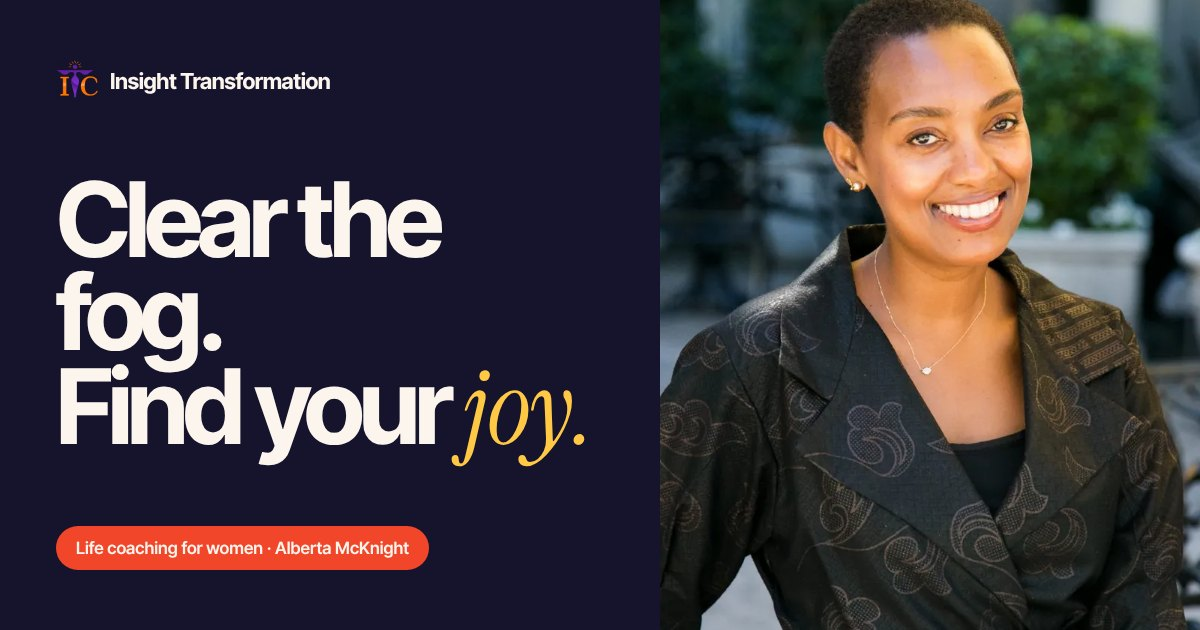
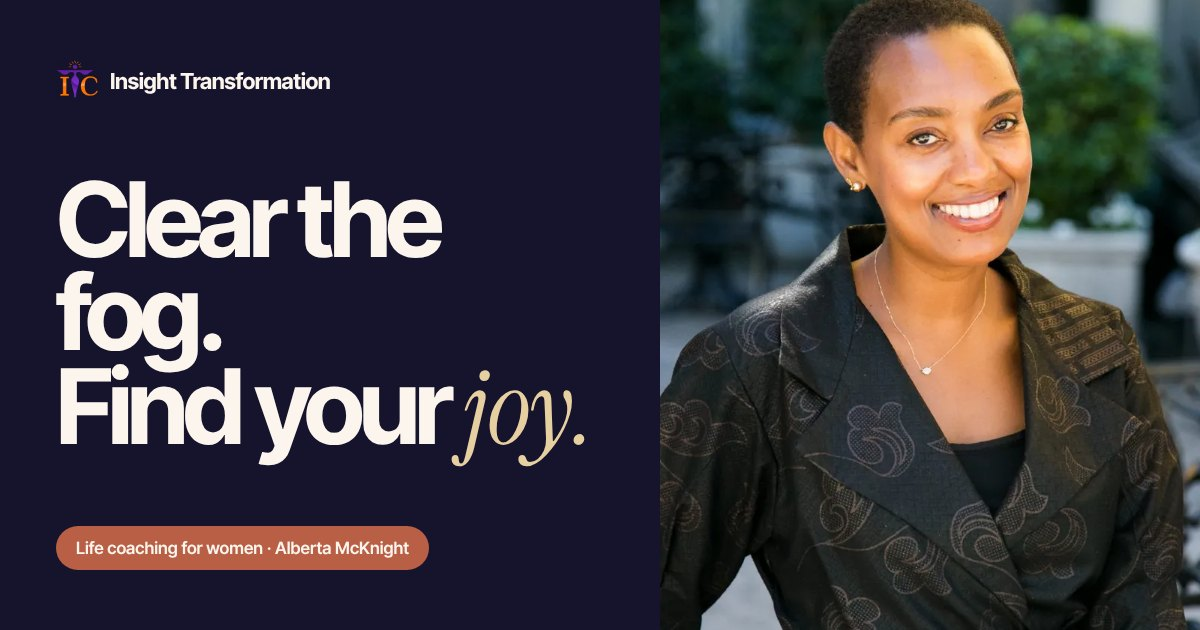
Calmer palette and clearance around coloured blocks
Replace the bright coral and sunshine yellow with muted terracotta,
warm wheat and dusty clay, keeping the deep indigo. Soften the glows
and the share image to match. Add space so no coloured block touches
neighbouring text (the "Is this you?" block sat 2px from the next
section label; the About quote card sat close to its heading).

Claude-Session: https://claude.ai/code/session_01HKk4GseRtsW7XDsCS6yZdp

Changed region(s): [[0.0308, 0.8143, 0.37, 0.9048], [0.37, 0.573, 0.4933, 0.754]]

diff --git a/insight-transformation/assets/css/main.css b/insight-transformation/assets/css/main.css
@@ -5,19 +5,19 @@
    ========================================================================== */
 
 :root {
-  --paper: #fbf5ee;
-  --sand: #f7e6dc;
-  --card: #fffaf5;
+  --paper: #f8f2ea;
+  --sand: #efe4d8;
+  --card: #fdf9f4;
   --ink: #15131f;
   --soft: #5d5866;
   --line: rgba(21, 19, 31, .12);
   --line-2: rgba(21, 19, 31, .2);
-  --violet: #f2462a;
-  --violet-soft: #ffe1d8;
+  --violet: #b85f45;
+  --violet-soft: #f3e3da;
   --plum: #16132c;
   --plum-2: #221e40;
-  --lilac: #ffc845;
-  --sun: #f2462a;
+  --lilac: #e6cfa0;
+  --sun: #b85f45;
   --on-dark: #fbf5ee;
   --on-dark-soft: rgba(251, 245, 238, .72);
   --line-dark: rgba(251, 245, 238, .16);
@@ -821,7 +821,7 @@ h1, h2, h3, .h1, .h2, .h3, .display, .hero__title, .phero__title, .statement__te
 .switch[aria-checked="true"] .lbl-on { background: var(--violet); }
 .hdr__cta { background: var(--violet); }
 .hdr__cta:hover { background: var(--ink); }
-.hdr__cta i { background: var(--lilac); box-shadow: 0 0 0 4px rgba(255, 200, 69, .3); }
+.hdr__cta i { background: var(--lilac); box-shadow: 0 0 0 4px rgba(230, 207, 160, .3); }
 .btn:hover { background: var(--violet); border-color: var(--violet); }
 .btn--outline:hover { background: var(--ink); border-color: var(--ink); }
 .quiz__lv.is-lead { border-color: var(--lilac); }
@@ -980,10 +980,10 @@ h1, h2, h3, .h1, .h2, .h3, .display, .hero__title, .phero__title, .statement__te
 .vhero__card::before { content: ""; position: absolute; inset: 0; z-index: -1; pointer-events: none;
   background: linear-gradient(90deg, var(--plum) 27%, rgba(22, 19, 44, .82) 40%, rgba(22, 19, 44, .2) 62%, rgba(22, 19, 44, 0) 80%),
               linear-gradient(0deg, rgba(22, 19, 44, .92) 0%, rgba(22, 19, 44, 0) 46%); }
-.vhero__card::after { content: ""; position: absolute; z-index: -1; left: -10%; bottom: -55%; width: 60%; aspect-ratio: 1; border-radius: 50%; background: radial-gradient(circle, rgba(242, 70, 42, .35), transparent 62%); pointer-events: none; }
+.vhero__card::after { content: ""; position: absolute; z-index: -1; left: -10%; bottom: -55%; width: 60%; aspect-ratio: 1; border-radius: 50%; background: radial-gradient(circle, rgba(184, 95, 69, .35), transparent 62%); pointer-events: none; }
 .vhero__body { flex: 1; display: flex; flex-direction: column; justify-content: flex-end; padding: clamp(36px, 5vw, 64px) clamp(22px, 4vw, 56px) 0; }
 .vhero__k { display: flex; align-items: center; gap: 10px; font-size: .68rem; font-weight: 600; letter-spacing: .16em; text-transform: uppercase; color: var(--on-dark-soft); }
-.dotlive { width: 8px; height: 8px; border-radius: 50%; background: var(--lilac); box-shadow: 0 0 0 4px rgba(255, 200, 69, .25); flex: none; }
+.dotlive { width: 8px; height: 8px; border-radius: 50%; background: var(--lilac); box-shadow: 0 0 0 4px rgba(230, 207, 160, .25); flex: none; }
 .vhero__title { font-family: var(--display); font-weight: 700; font-size: clamp(3.4rem, 7.4vw, 8rem); line-height: .88; letter-spacing: -.055em; margin: 20px 0 0; max-width: 9.5ch; }
 .vhero__title .it { color: var(--lilac); letter-spacing: -.02em; }
 .vhero__foot { display: grid; grid-template-columns: minmax(0, 1fr) auto; gap: 24px 48px; align-items: end; margin-top: clamp(28px, 3.4vw, 44px); }
@@ -1079,7 +1079,7 @@ h1, h2, h3, .h1, .h2, .h3, .display, .hero__title, .phero__title, .statement__te
 .method__intro .btn .btn__ico { background: rgba(255, 255, 255, .2); color: #fff; }
 .method__cards { display: grid; grid-template-columns: repeat(3, minmax(0, 1fr)); gap: 12px; }
 .mc { border-radius: 20px; background: var(--plum-2); border: 1px solid var(--line-dark); padding: 22px; display: flex; flex-direction: column; min-height: 470px; transition: border-color .5s, transform .6s var(--ease); }
-.mc:hover { border-color: rgba(255, 200, 69, .5); transform: translateY(-6px); }
+.mc:hover { border-color: rgba(230, 207, 160, .5); transform: translateY(-6px); }
 .mc__step { display: flex; justify-content: space-between; font-size: .62rem; font-weight: 600; letter-spacing: .16em; text-transform: uppercase; color: var(--on-dark-soft); }
 .mc__letter { font-family: var(--display); font-weight: 800; font-size: clamp(6rem, 9vw, 9.5rem); line-height: .82; letter-spacing: -.06em; margin: 26px 0 22px; color: transparent; -webkit-text-stroke: 1.5px rgba(251, 245, 238, .45); transition: color .5s, -webkit-text-stroke-color .5s; }
 .mc:first-child .mc__letter, .mc:hover .mc__letter { color: var(--violet); -webkit-text-stroke-color: transparent; }
@@ -1208,7 +1208,7 @@ h1, h2, h3, .h1, .h2, .h3, .display, .hero__title, .phero__title, .statement__te
 .preloader { position: fixed; inset: 0; z-index: 160; display: none; flex-direction: column; justify-content: space-between; padding: clamp(24px, 4vw, 52px); background: var(--plum); color: var(--on-dark); overflow: hidden; }
 .is-loading .preloader { display: flex; }
 .is-loading body { overflow: hidden; }
-.preloader::before { content: ""; position: absolute; left: 50%; bottom: 0; width: 150vmin; height: 150vmin; margin-left: -75vmin; border-radius: 50%; background: radial-gradient(circle, rgba(255, 200, 69, .9) 0%, rgba(242, 70, 42, .75) 18%, rgba(242, 70, 42, .25) 38%, transparent 62%); transform: translateY(calc(100% - var(--p, 0) * 60%)); }
+.preloader::before { content: ""; position: absolute; left: 50%; bottom: 0; width: 150vmin; height: 150vmin; margin-left: -75vmin; border-radius: 50%; background: radial-gradient(circle, rgba(230, 207, 160, .9) 0%, rgba(184, 95, 69, .75) 18%, rgba(184, 95, 69, .25) 38%, transparent 62%); transform: translateY(calc(100% - var(--p, 0) * 60%)); }
 .preloader__top { position: relative; display: flex; justify-content: space-between; gap: 20px; font-size: .66rem; font-weight: 600; letter-spacing: .16em; text-transform: uppercase; color: var(--on-dark-soft); }
 .preloader__words { position: relative; display: flex; flex-wrap: wrap; gap: 0 .28em; font-family: var(--display); font-weight: 700; font-size: clamp(3rem, 9vw, 9rem); line-height: .92; letter-spacing: -.055em; }
 .preloader__words span { opacity: .12; transition: opacity .5s var(--ease); }
@@ -1227,7 +1227,7 @@ h1, h2, h3, .h1, .h2, .h3, .display, .hero__title, .phero__title, .statement__te
 .cursor { position: fixed; left: 0; top: 0; z-index: 140; pointer-events: none; width: 12px; height: 12px; margin: -6px 0 0 -6px; border-radius: 50%; background: var(--violet); display: grid; place-items: center; opacity: 0; transition: width .35s var(--ease), height .35s var(--ease), margin .35s var(--ease), background .35s, opacity .3s; }
 .cursor span { font-size: .72rem; font-weight: 700; color: #fff; opacity: 0; transition: opacity .25s; white-space: nowrap; }
 .cursor.is-on { opacity: 1; }
-.cursor.is-link { width: 46px; height: 46px; margin: -23px 0 0 -23px; background: rgba(242, 70, 42, .18); }
+.cursor.is-link { width: 46px; height: 46px; margin: -23px 0 0 -23px; background: rgba(184, 95, 69, .18); }
 .cursor.is-label { width: 88px; height: 88px; margin: -44px 0 0 -44px; background: var(--lilac); }
 .cursor.is-label span { opacity: 1; color: var(--ink); }
 @media (hover: none), (pointer: coarse) { .cursor { display: none; } }
@@ -1240,7 +1240,7 @@ h1, h2, h3, .h1, .h2, .h3, .display, .hero__title, .phero__title, .statement__te
 @keyframes floaty { 0%, 100% { translate: 0 0; } 50% { translate: 0 -8px; } }
 .intro-done .vhero__mini { animation: floaty 5s ease-in-out 1.6s infinite; }
 .dotlive { animation: livepulse 2.2s ease-in-out infinite; }
-@keyframes livepulse { 0%, 100% { box-shadow: 0 0 0 4px rgba(255, 200, 69, .25); } 50% { box-shadow: 0 0 0 9px rgba(255, 200, 69, 0); } }
+@keyframes livepulse { 0%, 100% { box-shadow: 0 0 0 4px rgba(230, 207, 160, .25); } 50% { box-shadow: 0 0 0 9px rgba(230, 207, 160, 0); } }
 
 /* stacking step cards (desktop) */
 @media (min-width: 1025px) {
@@ -1296,7 +1296,7 @@ h1, h2, h3, .h1, .h2, .h3, .display, .hero__title, .phero__title, .statement__te
 .stop--r .stop__media { grid-column: 1; grid-row: 1; justify-self: end; }
 .stop__dot { grid-column: 2; grid-row: 1; justify-self: center; position: relative; z-index: 1; width: 64px; height: 64px; border-radius: 50%; display: grid; place-items: center; background: var(--paper); border: 2px solid var(--line-2); transition: background .5s var(--ease), border-color .5s, transform .6s var(--ease); }
 .stop__dot b { font-family: var(--serif); font-style: italic; font-weight: 400; font-size: 1.35rem; color: var(--soft); transition: color .5s; }
-.stop.is-on .stop__dot, .route.is-static .stop__dot { background: var(--violet); border-color: var(--violet); transform: scale(1.08); box-shadow: 0 0 0 10px rgba(242, 70, 42, .12); }
+.stop.is-on .stop__dot, .route.is-static .stop__dot { background: var(--violet); border-color: var(--violet); transform: scale(1.08); box-shadow: 0 0 0 10px rgba(184, 95, 69, .12); }
 .stop.is-on .stop__dot b, .route.is-static .stop__dot b { color: #fff; }
 .stop .chip { display: flex; width: max-content; margin-bottom: 16px; }
 .stop h3 { font-size: clamp(1.8rem, 2.8vw, 2.7rem); letter-spacing: -.045em; line-height: 1; }
@@ -1340,7 +1340,7 @@ body::after { content: ""; position: fixed; inset: -50%; z-index: 120; pointer-e
 
 /* soft light behind cream sections */
 .section { isolation: isolate; }
-.section:not(.on-dark):not(.signs-s):not(.section--sand)::before { content: ""; position: absolute; z-index: -1; pointer-events: none; width: 46vw; aspect-ratio: 1; border-radius: 50%; right: -16vw; top: 6%; background: radial-gradient(circle, rgba(255, 200, 69, .22), rgba(242, 70, 42, .06) 45%, transparent 68%); filter: blur(10px); }
+.section:not(.on-dark):not(.signs-s):not(.section--sand)::before { content: ""; position: absolute; z-index: -1; pointer-events: none; width: 46vw; aspect-ratio: 1; border-radius: 50%; right: -16vw; top: 6%; background: radial-gradient(circle, rgba(230, 207, 160, .22), rgba(184, 95, 69, .06) 45%, transparent 68%); filter: blur(10px); }
 .section:not(.on-dark):not(.signs-s):not(.section--sand):nth-of-type(even)::before { right: auto; left: -18vw; top: 30%; }
 
 /* coral "Is this you?" block */
@@ -1371,7 +1371,7 @@ body::after { content: ""; position: fixed; inset: -50%; z-index: 120; pointer-e
 .wordband__cap { position: absolute; left: clamp(22px, 4vw, 56px); bottom: clamp(20px, 3vw, 36px); max-width: 360px; font-size: .9rem; color: rgba(255, 255, 255, .8); }
 
 /* sun rings behind portraits */
-.meet__img::before { content: ""; position: absolute; z-index: -1; left: 50%; top: 46%; width: 150%; aspect-ratio: 1; transform: translate(-50%, -50%); border-radius: 50%; border: 1px solid rgba(242, 70, 42, .25); box-shadow: 0 0 0 46px rgba(242, 70, 42, .05), 0 0 0 92px rgba(242, 70, 42, .03); pointer-events: none; }
+.meet__img::before { content: ""; position: absolute; z-index: -1; left: 50%; top: 46%; width: 150%; aspect-ratio: 1; transform: translate(-50%, -50%); border-radius: 50%; border: 1px solid rgba(184, 95, 69, .25); box-shadow: 0 0 0 46px rgba(184, 95, 69, .05), 0 0 0 92px rgba(184, 95, 69, .03); pointer-events: none; }
 .meet { isolation: isolate; }
 .section--sand { overflow: hidden; }
 
@@ -1384,3 +1384,30 @@ body::after { content: ""; position: fixed; inset: -50%; z-index: 120; pointer-e
   .wordband__cap { right: 20px; }
 }
 @media (prefers-reduced-motion: reduce) { body::after { animation: none; } }
+
+/* ==========================================================================
+   v9 — calmer palette + clearance around coloured blocks
+   ========================================================================== */
+.signs-s { background: #9e5442; }
+.signs-s .signs__cta, .signs-s .signs__cta:hover .it { background: var(--lilac); }
+.signs-s .signs__cta:hover { background: var(--plum); }
+.signs-s h2 .it { color: var(--lilac); }
+.mq { background: #eadbbd; }
+.mq__item:nth-child(4n+3) { color: var(--violet); }
+.tile--accent { background: #a95a44; }
+.tile--accent .it { color: var(--lilac); }
+.hdr__cta { background: var(--violet); }
+.hdr__cta:hover { background: var(--ink); }
+.btn:hover { background: var(--violet); border-color: var(--violet); }
+.vhero .btn:hover, .method__intro .btn:hover { background: var(--lilac); border-color: var(--lilac); color: var(--ink); }
+.wordband__row--b i { background: var(--violet); }
+.section:not(.on-dark):not(.signs-s):not(.section--sand)::before { background: radial-gradient(circle, rgba(230, 207, 160, .2), rgba(184, 95, 69, .05) 45%, transparent 68%); }
+
+/* never let a coloured block touch neighbouring text */
+.signs-s + .section--top0, .method-s + .section--top0, .wordband + .section--top0, .section--sand + .section--top0 { padding-top: var(--section); }
+.define { margin-top: clamp(8px, 1vw, 16px); }
+.shead + .define, .shead__row + .define { margin-top: 0; }
+@media (max-width: 1024px) {
+  .define__quote { margin-top: 24px; margin-bottom: 24px; }
+  .gandhi + .bigcta { margin-top: 24px; }
+}
